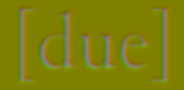
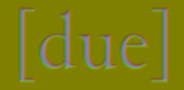
Share liquid pooling across repeat ink and normalize English surfaces

diff --git a/tools/build_paper_ink_study.py b/tools/build_paper_ink_study.py
@@ -202,6 +202,18 @@ def filling_field(text, ink, distance, box, ascent, font_path, font_size, mergin
     return gaussian_filter(inside_out[nearest], SS * .65), duration
 
 
+def liquid_surface(distance, font_size):
+    """Keep film depth and curvature equivalent across the two font raster sizes."""
+    unit = font_size / 160
+    interior = np.maximum(0, distance)
+    film = interior / (interior + 3 * unit)
+    gy, gx = np.gradient(gaussian_filter(film * 3 * unit, SS * 2 * unit))
+    nx, ny = -gx * SS, -gy * SS
+    length = np.sqrt(nx * nx + ny * ny + 1)
+    return np.rint(np.stack([128 + nx / length * 127, 128 + ny / length * 127,
+                            film * 255, np.full(distance.shape, 255)], axis=-1)).astype('uint8')
+
+
 def build(ayah, position, text, english=False):
     font_path, font_size, direction = (ENGLISH_FONT, 80, 'ltr') if english else (ARABIC_FONT, 160, 'rtl')
     reference = ImageFont.truetype(str(font_path), font_size)
@@ -218,13 +230,7 @@ def build(ayah, position, text, english=False):
     edge = (alpha > 0) & (alpha < 1)
     distance[edge] = (alpha[edge] - .5) / SS
     # A rounded meniscus continues across broad strokes instead of flattening at the edge.
-    interior = np.maximum(0, distance)
-    film = interior / (interior + 3)
-    gy, gx = np.gradient(gaussian_filter(film * 3, SS * 2))
-    nx, ny = -gx * SS, -gy * SS
-    length = np.sqrt(nx * nx + ny * ny + 1)
-    normal = np.rint(np.stack([128 + nx / length * 127, 128 + ny / length * 127,
-                              film * 255, np.full(alpha.shape, 255)], axis=-1)).astype('uint8')
+    normal = liquid_surface(distance, font_size)
     # Opaque data avoids premultiplication. B carries signed contour distance.
     field = np.zeros((*alpha.shape, 4), dtype='uint8')
     bloom, duration = filling_field(text, ink, distance, box, reference.getmetrics()[0], font_path, font_size)

diff --git a/tools/test_paper_ink_study.py b/tools/test_paper_ink_study.py
@@ -8,7 +8,7 @@ from PIL import Image, ImageDraw, ImageFont
 from scipy.ndimage import distance_transform_edt, label
 
 from build_paper_ink_study import (
-    ARABIC_FONT, ENGLISH_FONT, ROOT, SS, filling_field, reservoir_growth, wicking_basins,
+    ARABIC_FONT, ENGLISH_FONT, ROOT, SS, filling_field, liquid_surface, reservoir_growth, wicking_basins,
 )
 
 
@@ -26,6 +26,18 @@ def material(text, arabic=False, merging=True):
 
 
 class PaperInkStudyTest(unittest.TestCase):
+    def test_liquid_surface_does_not_flatten_when_the_font_raster_is_half_size(self):
+        fields = []
+        for size in (160, 80):
+            unit = size / 160
+            yy, xx = np.indices((int(160 * unit), int(160 * unit)))
+            distance = (50 * unit - np.hypot(xx - 80 * unit, yy - 80 * unit)) / SS
+            surface = liquid_surface(distance, size)
+            fields.append(surface[::2, ::2] if size == 160 else surface)
+        # Compare the film's RGB data at the same physical points. The
+        # one-level allowance is for finite differences and quantization.
+        self.assertLessEqual(np.max(np.abs(fields[0].astype(int) - fields[1].astype(int))), 1)
+
     def test_uniform_stroke_receives_separate_pools_before_they_join(self):
         ink = np.zeros((60, 420), dtype=bool)
         ink[10:50, 10:410] = True

diff --git a/docs/GLIMMER.md b/docs/GLIMMER.md
@@ -74,6 +74,15 @@ Both gloss and the optical expansion settle over the existing
 `InkEngine.tuning.glintFadeMs`. Hafs has no variable weight axis. No glow,
 pixel noise, or surrounding shadow is added.
 
+First and repeat passes deposit the same liquid layer through the same
+arrival field and soft front, including expansion, the rounded meniscus and
+reflection. The repeat's stronger retained dry underprint preserves legibility;
+it does not replace the liquid fill with an early-saturating color reveal.
+English surface depth, height and smoothing are scaled to its 80 px font
+raster, matching Arabic's 160 px material units. This keeps the smaller
+Junicode strokes from receiving a shallow, over-smoothed film. Printed contours,
+letter timing, dial values and the orange pigment are unchanged.
+
 **Reflection** adjusts the window reflection's strength from 0–100%, default
 50%. **Softness** changes its spread from a focused, antialiased reflection
 to a broad soft light, default 0%. Both work during timed playback and Hold
@@ -104,7 +113,7 @@ the sheen settles. Only when playback leaves verse 2 does the complete chain
 dissolve together to charcoal over `InkEngine.tuning.repeatFadeOutMs` (900 ms).
 The tint envelope is independent of wetness, so earlier words do not become
 brown or black while later words repeat. Carbon pooling does not darken orange;
-its color establishes early within the feathered fill.
+its pigment travels through the same feathered liquid fill as the first pass.
 **Again** restarts the three-verse demonstration and rearms its one repeat.
 The repeat mode is cleared when the study stops.
 
@@ -152,7 +161,8 @@ The generator's geometry regressions check interior-before-edge filling on
 both sides of a letter, left-to-right English and right-to-left Arabic overlapping blooms, multi-letter Hafs
 ligatures, single-pixel marks, separate deposits merging inside one letter,
 capillary paths around a paper gap, and distinct growth on identical outlines
-and schedules when switching spread methods.
+and schedules when switching spread methods. A surface-scale regression checks
+equivalent film depth and curvature at half-size font rasterization.
 The controlled reflection is identical in recordings and on a still phone;
 physical-device performance and reading comfort still need evaluation.
 
